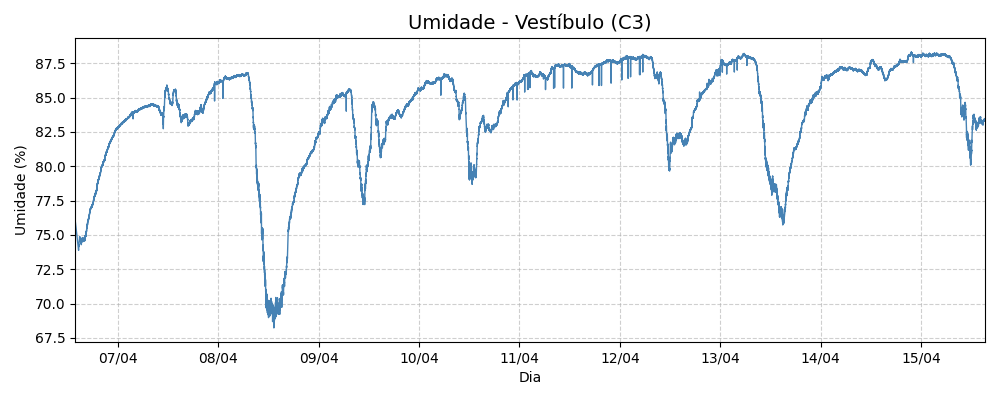
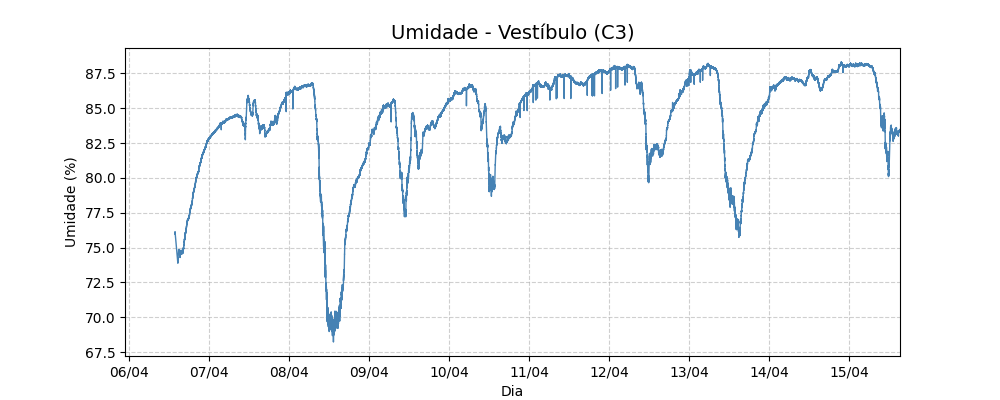
feat: adicão de script de comparação com suavização

diff --git a/scripts/graficoComparativo.py b/scripts/graficoComparativo.py
@@ -1,0 +1,75 @@
+import pandas as pd
+import matplotlib.pyplot as plt
+import matplotlib.dates as mdates
+import os
+
+# garante a existência da pasta para salvar os resultados
+os.makedirs('resultados', exist_ok=True)
+
+df = pd.read_csv('dados/leiturasCartao2.csv')
+df['DataHora'] = pd.to_datetime(df['DataHora'], dayfirst=True)
+
+# separando as colunas por categoria para os comparativos
+cols_temp = [c for c in df.columns if 'temp' in c.lower()]
+cols_umi = [c for c in df.columns if 'umi' in c.lower()]
+
+mapa_legendas = {
+    'temp_ext': 'Externo',
+    'umi_ext': 'Externo',
+    'temp_c2_larva ( s3)': 'C2 Larva', 
+    'umi_c2_larva(s3)': 'C2 Larva',
+    'vest_temp_c2 (s4)': 'C2 Vest',
+    'vest_umic2 (s4)': 'C2 Vest',
+    'temp_c3_larva (s5)': 'C3 Larva',
+    'umi_c3_larva (s5)': 'C3 Larva',
+    'vest_temp_c3 (s6)': 'C3 Vest',
+    'vest_umi_c3 s6': 'C3 Vest'
+}
+
+def gerar_grafico_comparativo(colunas, titulo_principal, label_y, nome_arquivo):
+    plt.figure(figsize=(12, 6))
+    
+    for col in colunas:
+        plt.plot(df['DataHora'], df[col].rolling(window=12,center=True).mean(), label=mapa_legendas.get(col, col), linewidth=1)
+
+    # customização do gráfico
+    plt.title(titulo_principal, fontsize=14)
+    plt.ylabel(label_y, fontsize=12)
+    plt.xlabel("Dia", fontsize=12)
+    
+    # configuração do Eixo X (Início ao Fim, formato dd/mm)
+    ax = plt.gca()
+    inicio, fim = df['DataHora'].min(), df['DataHora'].max()
+    ax.set_xlim(inicio - pd.Timedelta(hours=15), fim)
+    ax.xaxis.set_major_formatter(mdates.DateFormatter('%d/%m'))
+    ax.xaxis.set_major_locator(mdates.DayLocator(interval=1))
+    
+    plt.xticks(rotation=45)
+    plt.grid(True, linestyle='--', alpha=0.6)
+    
+    # legenda no canto superior direito como no modelo dela
+    plt.legend(loc='upper right', fontsize='small', frameon=True)
+    
+    plt.tight_layout()
+    plt.savefig(f'resultados/{nome_arquivo}.png', dpi=300)
+    plt.close()
+
+# gerar comparativo de todas as Temperaturas
+if cols_temp:
+    gerar_grafico_comparativo(
+        cols_temp, 
+        "Comparativo de Temperatura: Larva, Vestíbulo e Externo", 
+        "Temperatura (°C)", 
+        "comparativo_temperaturas"
+    )
+
+# gerar comparativo de todas as Umidades
+if cols_umi:
+    gerar_grafico_comparativo(
+        cols_umi, 
+        "Comparativo de Umidade: Larva, Vestíbulo e Externo", 
+        "Umidade (%)", 
+        "comparativo_umidades"
+    )
+
+print("Gráficos comparativos gerados com sucesso na pasta 'resultados'!")

diff --git a/scripts/graficosDados.py b/scripts/graficosDados.py
@@ -52,7 +52,7 @@ for col in colunas_sensores:
     
     # formatando o eixo x para mostrar apenas o dia e mês
     ax = plt.gca()
-    ax.set_xlim(df['DataHora'].min(), df['DataHora'].max())
+    ax.set_xlim(df['DataHora'].min() - pd.Timedelta(hours=15), df['DataHora'].max())
     ax.xaxis.set_major_formatter(mdates.DateFormatter('%d/%m'))
     ax.xaxis.set_major_locator(mdates.DayLocator(interval=1))
 
@@ -61,7 +61,7 @@ for col in colunas_sensores:
     
     
     # ajustando layout para evitar sobreposição de elementos
-    plt.tight_layout()
+   # plt.tight_layout()
     
     # salvando o gráfico e nomeando com base no nome da coluna 
     nome_arquivo = f"resultados/grafico_{col.replace(' ', '_').replace('(', '').replace(')', '')}.png"
